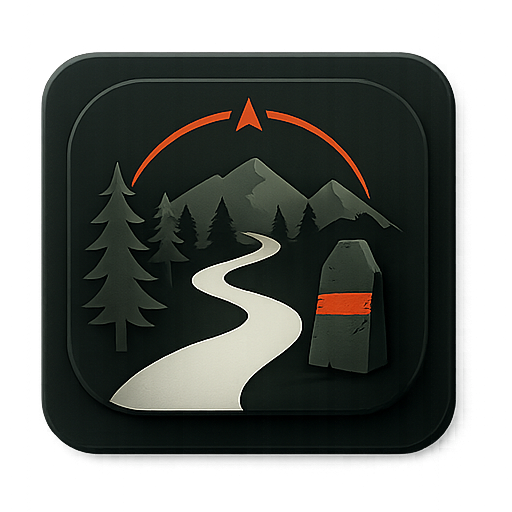
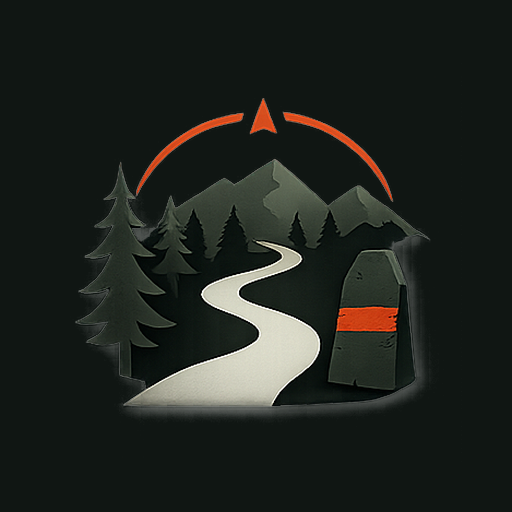
Add files via upload

diff --git a/README.md b/README.md
@@ -1,6 +1,6 @@
 <div align="center">
 
-<img src="splash.png" alt="Patika" width="260">
+<img src="logo.png" alt="Patika" width="260">
 
 # Patika
 